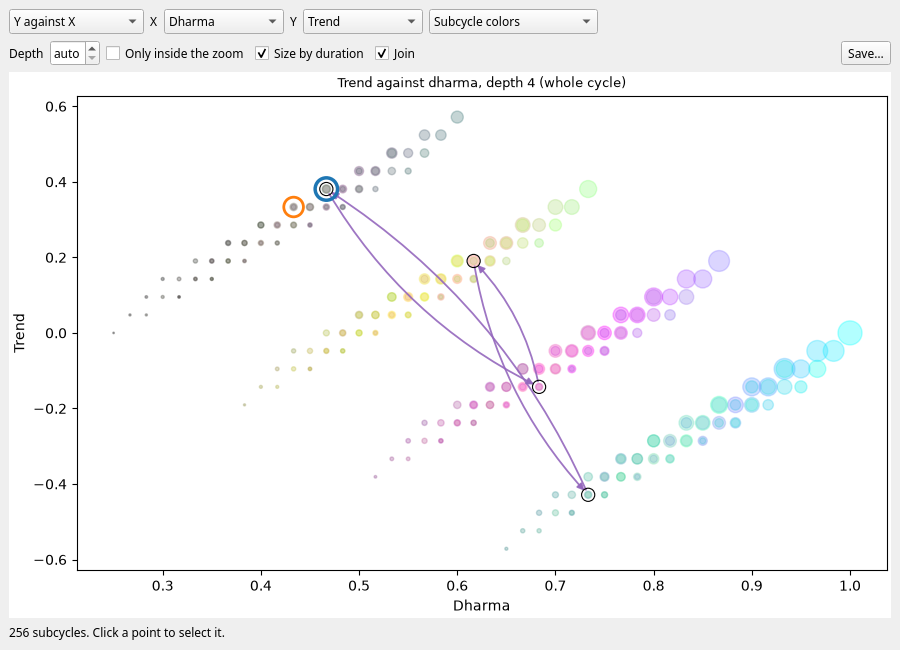
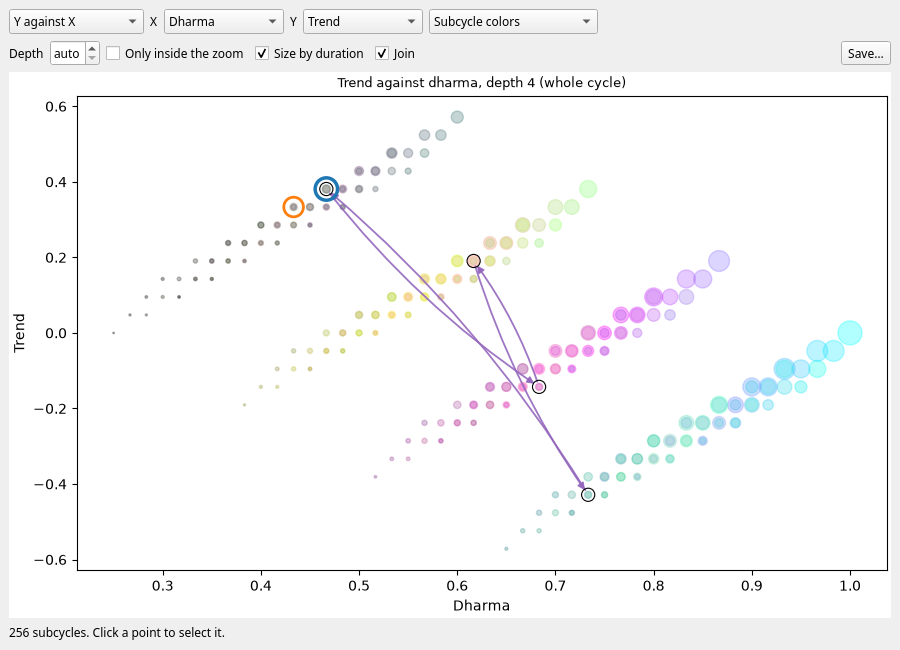
Gentler arcs and clipped arrows on plots

Changed region(s): [[0.3733, 0.3077, 0.6533, 0.7385]]

diff --git a/cycles/gui/links.py b/cycles/gui/links.py
@@ -10,6 +10,10 @@ from mpl_toolkits.mplot3d.art3d import Line3DCollection
 
 from cycles.gui.state import PERMUTATION_COLOR
 
+# Curvature of the orbit's arrows (arc3 radius: the bulge over the length of the step), enough to tell a step from
+# its way back
+CURVATURE = 0.08
+
 
 def draw_links(ax, links, positions: dict, points: np.ndarray) -> list:
     """
@@ -36,7 +40,7 @@ def draw_links(ax, links, positions: dict, points: np.ndarray) -> list:
         else:
             ax.add_collection(collection)
         return [collection]
-    # the orbit: one arrow per step, curved a little so that a step and its way back (a swap) both show
+    # the orbit: one arrow per step, curved a little (CURVATURE) so that a step and its way back (a swap) both show
     if three_d:
         segments = np.stack([starts, ends], axis=1)
         collection = Line3DCollection(segments, colors=PERMUTATION_COLOR, linewidths=1.4, alpha=0.9, zorder=3)
@@ -45,8 +49,12 @@ def draw_links(ax, links, positions: dict, points: np.ndarray) -> list:
         heads = starts + 0.8 * (ends - starts)
         dots = ax.scatter(heads[:, 0], heads[:, 1], heads[:, 2], s=26, color=PERMUTATION_COLOR, depthshade=False)
         return [collection, dots]
-    return [ax.annotate('', xy=tuple(b), xytext=tuple(a),
-                        arrowprops=dict(arrowstyle='-|>', color=PERMUTATION_COLOR, lw=1.3, alpha=0.9,
-                                        shrinkA=4, shrinkB=4, mutation_scale=10,
-                                        connectionstyle='arc3,rad=0.15'), zorder=3)
-            for a, b in zip(starts, ends)]
+    arrows = []
+    for a, b in zip(starts, ends):
+        arrow = ax.annotate('', xy=tuple(b), xytext=tuple(a),
+                            arrowprops=dict(arrowstyle='-|>', color=PERMUTATION_COLOR, lw=1.3, alpha=0.9,
+                                            shrinkA=4, shrinkB=4, mutation_scale=10,
+                                            connectionstyle=f"arc3,rad={CURVATURE}"), zorder=3)
+        arrow.arrow_patch.set_clip_path(ax.patch)          # never outside the plot
+        arrows.append(arrow)
+    return arrows

diff --git a/docs/es/markdown/12_aplicacion_grafica.md b/docs/es/markdown/12_aplicacion_grafica.md
@@ -139,7 +139,7 @@ tienden a descender y los malos a ascender.
 Con *Join* (activo por defecto), los subciclos resaltados se **unen**:
 
 - con el resaltado *⟨σ⟩ orbit*, los pasos de la órbita de la selección en orden (la selección, su imagen por σ,
-  la de σ², … y vuelta), con flechas púrpura algo curvadas, para que se vean un paso y su vuelta;
+  la de σ², … y vuelta), con flechas púrpura apenas curvadas, para que se distingan un paso y su vuelta;
 - con *Same composition*, las ordenaciones de sus edades que difieren en el **intercambio de dos dígitos
   vecinos**, con líneas grises finas (más tenues cuantas más hay).
 
